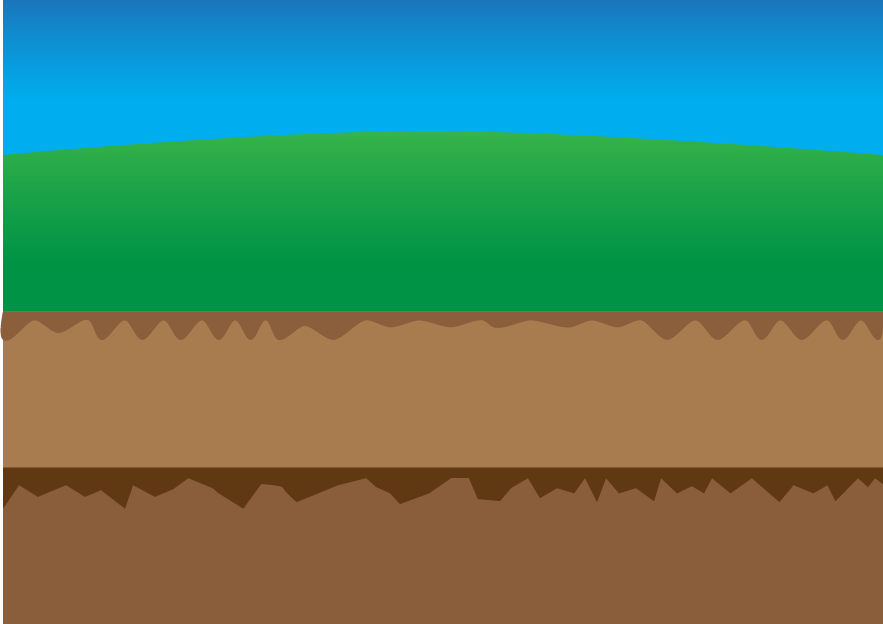
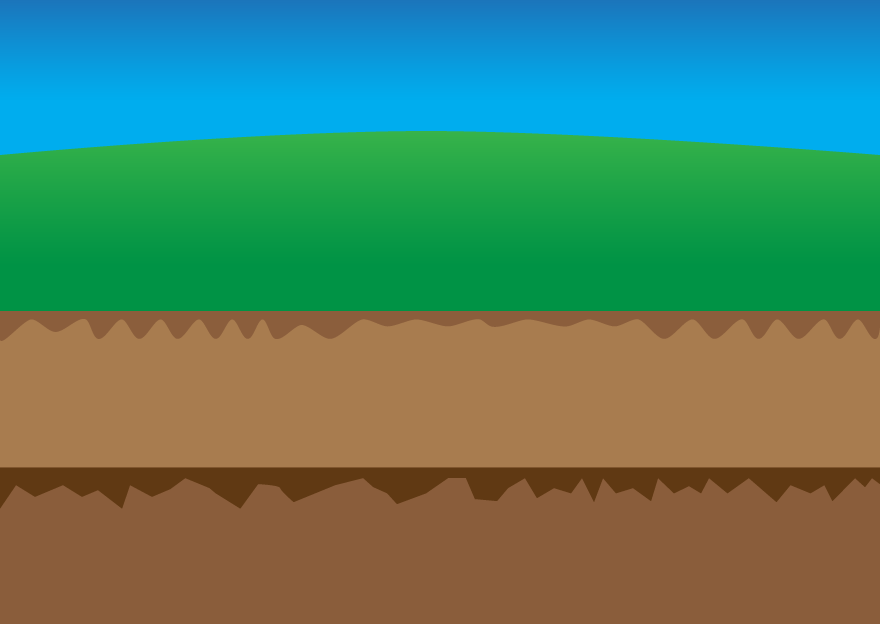
Added new images for the start screen and updated components.js & index1.html to use these images

Changed region(s): [[0.0, 0.0, 0.0307, 1.0], [0.1227, 0.7917, 0.1534, 0.8221]]

diff --git a/components.js b/components.js
@@ -113,13 +113,13 @@ Crafty.c('Money', {
 
 Crafty.c('2PlayerButton', {
 	init: function(){
-		this.requires('2D, Canvas, Color, Mouse')
-		.color('rgb(255, 51, 51)')
+		this.requires('2D, Canvas, Image, Mouse')
+		.image("https://rawgithub.com/IannothSlurgh/Game-Repository/master/2_player_unselected.png")
 		.bind('MouseOver', function(e){
-			this.color('rgb(178, 34, 34)');
+			this.image("https://rawgithub.com/IannothSlurgh/Game-Repository/master/2_player_unselected.png");
 		})
 		.bind('MouseOut', function(e){
-			this.color('rgb(255, 51, 51)');
+			this.image("https://rawgithub.com/IannothSlurgh/Game-Repository/master/2_player_unselected.png");
 		})
 		.bind('Click', function(e){
 			is_two_player_game = true;
@@ -131,13 +131,13 @@ Crafty.c('2PlayerButton', {
 
 Crafty.c('4PlayerButton', {
 	init: function(){
-		this.requires('2D, Canvas, Color, Mouse')
-		.color('rgb(255, 255, 0)')
+		this.requires('2D, Canvas, Image, Mouse')
+		.image("https://rawgithub.com/IannothSlurgh/Game-Repository/master/4_player_unselected.png")
 		.bind('MouseOver', function(e){
-			this.color('rgb(255, 215, 0)')
+			this.image("https://rawgithub.com/IannothSlurgh/Game-Repository/master/4_player_selected.png")
 		})
 		.bind('MouseOut', function(e){
-			this.color('rgb(255, 255, 0)');
+			this.image("https://rawgithub.com/IannothSlurgh/Game-Repository/master/4_player_unselected.png");
 		})
 		.bind('Click', function(e){
 			is_two_player_game = false;
@@ -149,13 +149,13 @@ Crafty.c('4PlayerButton', {
 
 Crafty.c('HelpButton', {
 	init: function(){
-		this.requires('2D, Canvas, Color, Mouse')
-		.color('rgb(0, 255, 255)')
+		this.requires('2D, Canvas, Image, Mouse')
+		.image("https://rawgithub.com/IannothSlurgh/Game-Repository/master/help_button_unselected.png")
 		.bind('MouseOver', function(e){
-			this.color('rgb(64, 224, 208)')
+			this.image("https://rawgithub.com/IannothSlurgh/Game-Repository/master/help_button_selected.png")
 		})
 		.bind('MouseOut', function(e){
-			this.color('rgb(0, 255, 255)');
+			this.image("https://rawgithub.com/IannothSlurgh/Game-Repository/master/help_button_unselected.png");
 		})
 		.bind('Click', function(e){
 			Crafty.scene('Help');
@@ -166,8 +166,8 @@ Crafty.c('HelpButton', {
 
 Crafty.c('MineCart', {
 	init: function(){
-		this.requires('2D, Canvas, Color, Tween')
-			.color('rgb(255, 128, 0)')
+		this.requires('2D, Canvas, Image, Tween')
+			.image("https://rawgithub.com/IannothSlurgh/Game-Repository/master/new_creepy_cart.png")
 			.tween({x: 880}, 10000)
 			.bind('TweenEnd', function(){
 				

diff --git a/index1.html b/index1.html
@@ -213,6 +213,14 @@
 	<script src="https://rawgithub.com/IannothSlurgh/Game-Repository/master/ian_code.js"></script>
 	<script src="https://rawgithub.com/IannothSlurgh/Game-Repository/master/phase_two.js"></script>
 	<script type = "image/png" src="https://rawgithub.com/IannothSlurgh/Game-Repository/master/start_background.png"></script>
+	<script type = "image/png" src="https://rawgithub.com/IannothSlurgh/Game-Repository/master/2_player_selected.png"></script>
+	<script type = "image/png" src="https://rawgithub.com/IannothSlurgh/Game-Repository/master/2_player_unselected.png"></script>
+	<script type = "image/png" src="https://rawgithub.com/IannothSlurgh/Game-Repository/master/4_player_selected.png"></script>
+	<script type = "image/png" src="https://rawgithub.com/IannothSlurgh/Game-Repository/master/4_player_unselected.png"></script>
+	<script type = "image/png" src="https://rawgithub.com/IannothSlurgh/Game-Repository/master/help_button_selected.png"></script>
+	<script type = "image/png" src="https://rawgithub.com/IannothSlurgh/Game-Repository/master/help_button_unselected.png"></script>
+	<script type = "image/png" src="https://rawgithub.com/IannothSlurgh/Game-Repository/master/new_creepy_cart.png"></script>
+	<script type = "image/png" src="https://rawgithub.com/IannothSlurgh/Game-Repository/master/title_img.png"></script>
 	<script src="http://code.jquery.com/jquery-2.1.0.min.js"></script>
 	<script src="/socket.io/socket.io.js"></script>
 

diff --git a/scenes.js b/scenes.js
@@ -350,9 +350,9 @@ Crafty.scene('StartScreen', function(){
 	Crafty.e('MineCart')
 		.attr({x: -100, y: 262, w: 100, h: 50});
 		
-	Crafty.e('2D, Canvas, Color')
-		.attr({x: 352, y: 40, w: 176, h: 76})
-		.color('rgb(123, 104, 238)');
+	Crafty.e('2D, Canvas, Image')
+		.attr({x: 352, y: 40, w: 176, h: 76});
+		.image("https://rawgithub.com/IannothSlurgh/Game-Repository/master/title_img.png");
 	
 	Crafty.e('2PlayerButton')
 		.attr({x: 352, y: 196, w: 176, h: 76});
